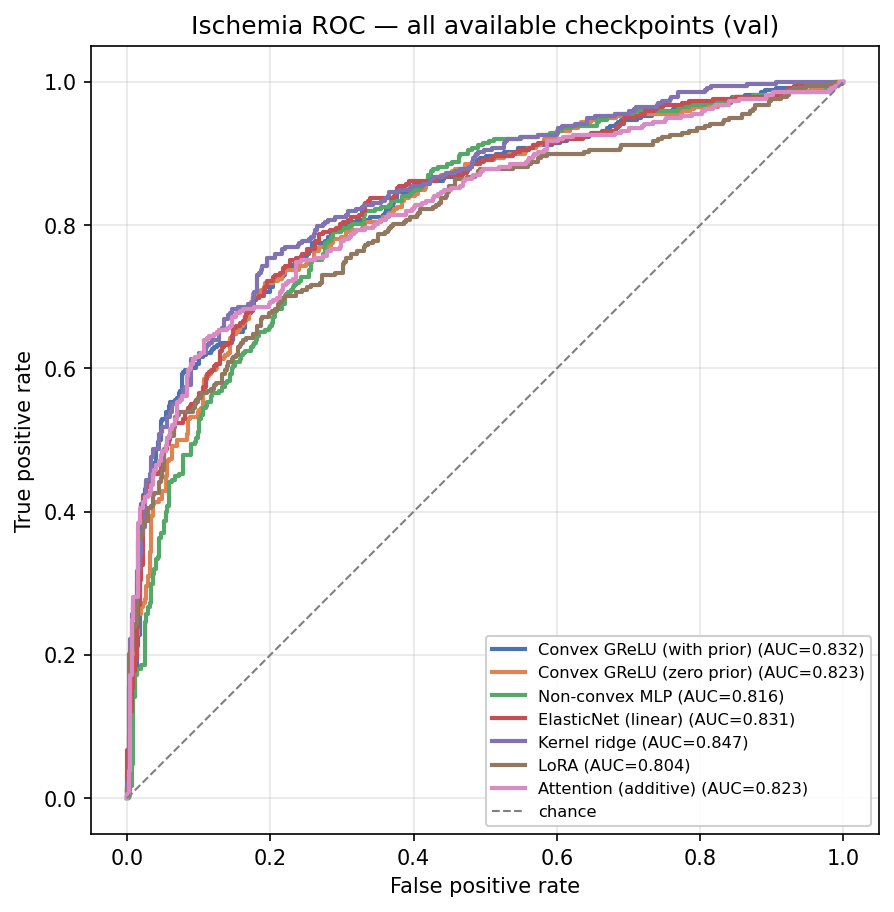
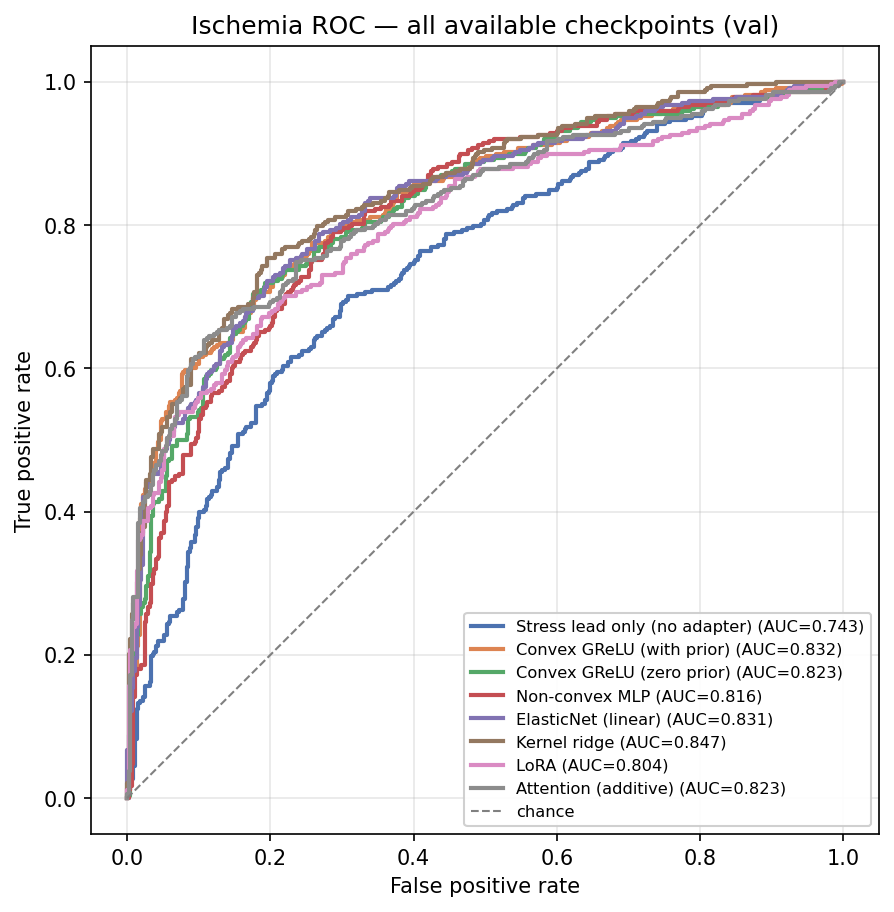
plots changed

diff --git a/src/plots.py b/src/plots.py
@@ -959,6 +959,12 @@ def _collect_model_predictions(val_split: dict, device,
 
     preds: dict[str, np.ndarray] = {}
 
+    # ---- Stress lead only: phi_stress -> regression head (no adapter) -------
+    preds["Stress lead only\n(no adapter)"] = np.asarray(
+        val_split["phi_stress"], dtype=np.float32,
+    )
+    print("  baseline: phi_stress -> regression head (no adapter)")
+
     # ---- Convex GReLU (with prior) -----------------------------------------
     gp = Path(args.grelu_ckpt)
     if gp.exists():
